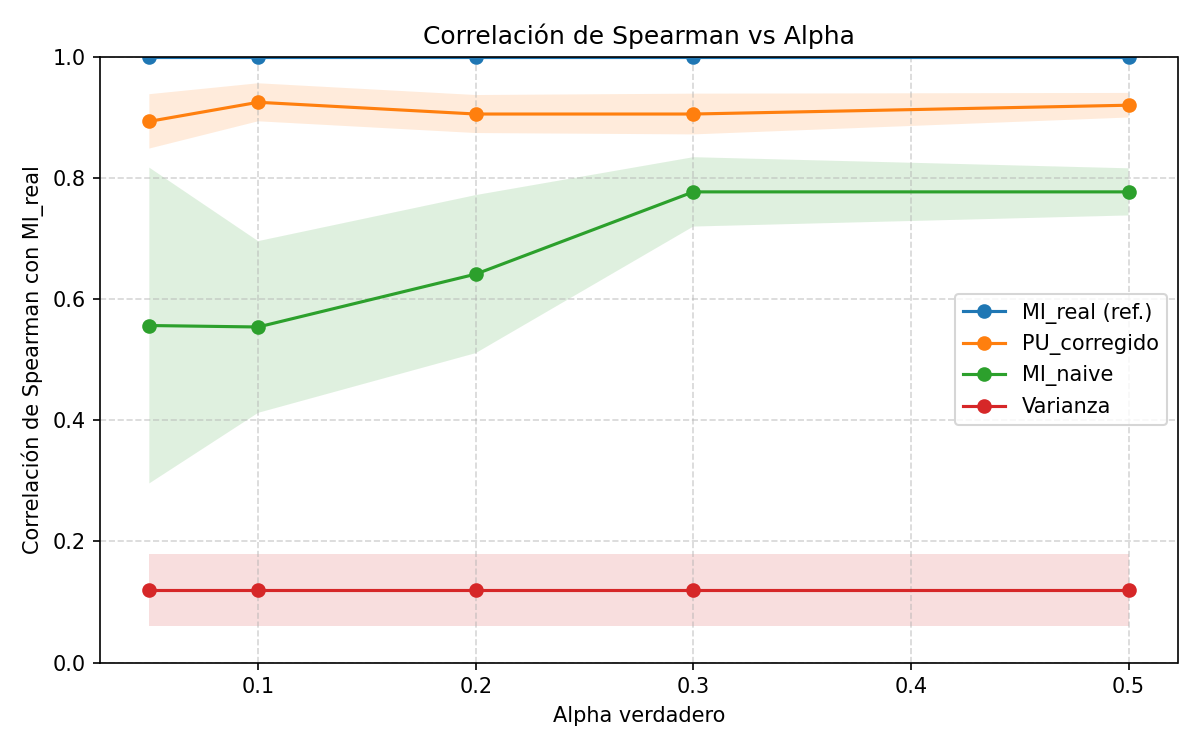
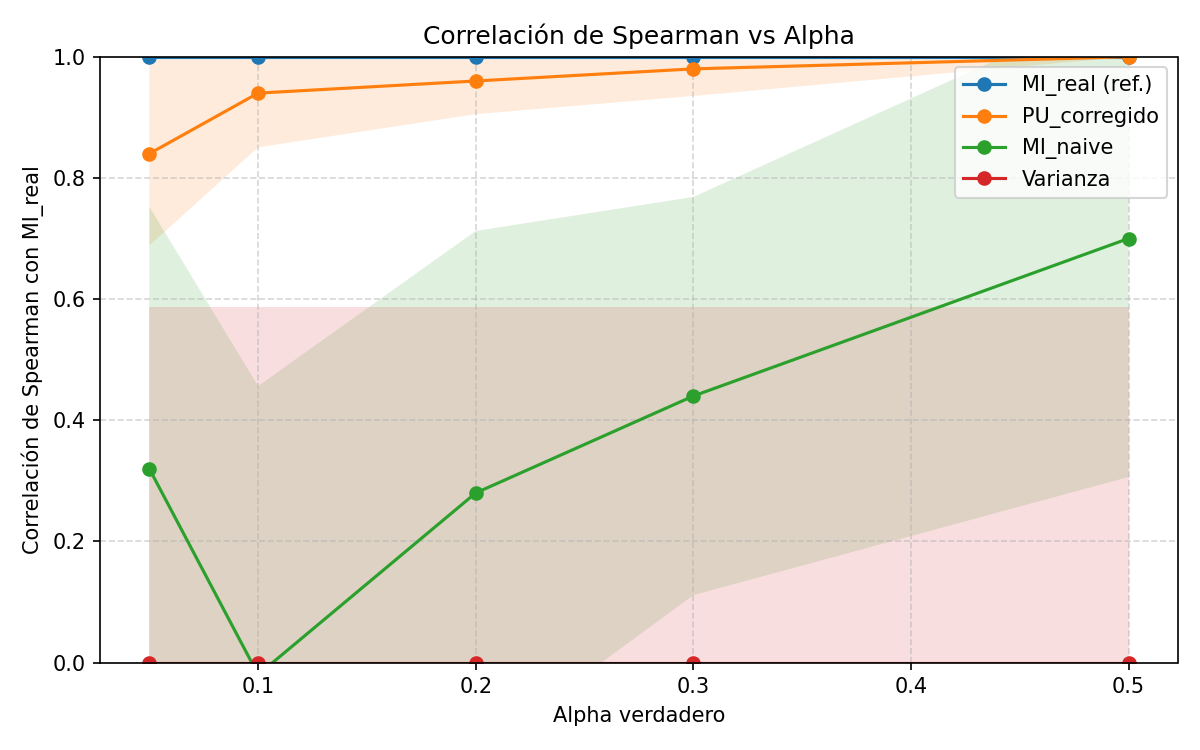
pipeline phoneme sin ruido

diff --git a/main.py b/main.py
@@ -31,12 +31,12 @@ def _ranking_instability(rankings_list):
 
 def main():
     """Ejecuta experimento según el modo configurado (single o sweep)."""
-    # MAGIC Gamma Telescope Dataset (UCI via OpenML)
-    # 19 020 muestras, 10 features, binario: gamma (1) / hadron (0)
-    # Escenario PU natural: clasificación de eventos Cherenkov
-    _dataset = fetch_openml(name="MagicTelescope", version=1, as_frame=False)
+    # Phoneme Dataset (UCI via OpenML)
+    # 5 404 muestras, 5 features, binario: nasal (1) / no-nasal (0)
+    # Escenario PU natural: clasificación de fonemas acústicos
+    _dataset = fetch_openml(name="phoneme", version=1, as_frame=False)
     X = _dataset.data
-    y = (_dataset.target == 'g').astype(int)
+    y = (_dataset.target == '1').astype(int)
     feature_names = np.array(_dataset.feature_names)
 
     # En modo single se itera una sola vez; en sweep se recorre la rejilla completa
@@ -58,8 +58,8 @@ def main():
         n_negatives = int((y == 0).sum())
         class_balance = round(n_positives / n_samples, 4) # proporción de positivos (que tan minoritaria es la clase positiva)
 
-        mlflow.log_param("dataset",       "magic_telescope")
-        mlflow.log_param("positive_class", "gamma ray (g)")
+        mlflow.log_param("dataset",       "phoneme")
+        mlflow.log_param("positive_class", "nasal (1)")
         mlflow.log_param("n_samples",      n_samples)
         mlflow.log_param("n_features",         n_features)
         mlflow.log_param("n_positives",        n_positives)

diff --git a/src/config.py b/src/config.py
@@ -13,6 +13,6 @@ NOISE_LEVEL = 0
 
 # Parámetros generales
 TOP_K = 10
-EXPERIMENT_NAME = "magic_telescope"
+EXPERIMENT_NAME = "phoneme"
 RUN_NAME = "v1.0.0"
  
